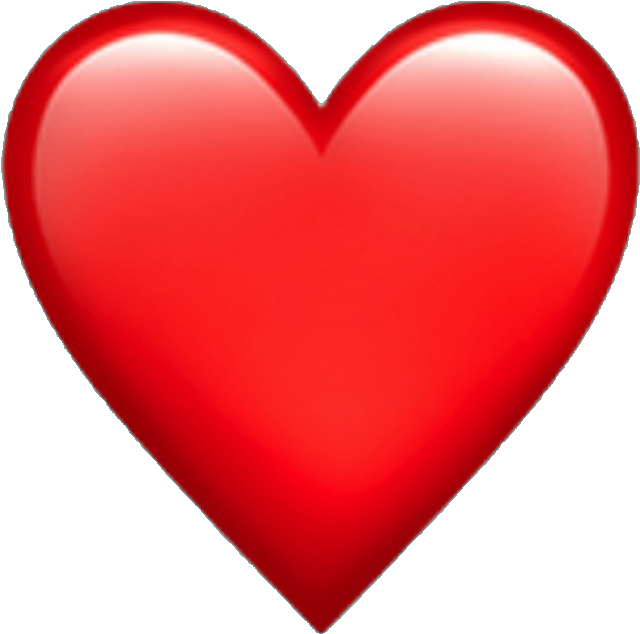
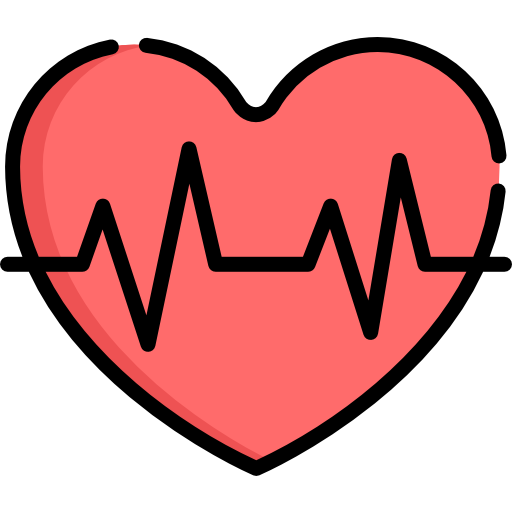
refactor:  날짜 코드 개선 및 이미지 변경

diff --git a/date-calculator/index.js b/date-calculator/index.js
@@ -1,45 +1,30 @@
-// 1 우리 사귄지 며칠째?
+// 우리 사귄지 며칠째?
 const now = new Date();
-const start = new Date("2020.5.28");
+const start = new Date('2020-05-28');
+const dayDiff = Math.floor((now - start) / (1000 * 60 * 60 * 24) + 1);
+$('#love').text(dayDiff + '일째');
 
-const timeDiff = now.getTime() - start.getTime();
-const day = Math.floor(timeDiff / (1000 * 60 * 60 * 24) + 1);
-$("#love").text(day + "일째");
+// 기념일까지 남은 날짜?
+const valentine = new Date('2024-02-14');
+const dayDiff2 = Math.floor((valentine - now) / (1000 * 60 * 60 * 24));
+$('#valentine').text(dayDiff2 + ' days');
 
-// 2 기념일까지 남은 날짜?
-const valentine = new Date("2024-02-14");
+// 1000일은 언제?
+const thousand = new Date(start.getTime() + 999 * (1000 * 60 * 60 * 24));
+const thousandDate = `${thousand.getFullYear()}.${thousand.getMonth() + 1}.${thousand.getDate()}`;
+$('#thousand-date').text(thousandDate);
 
-const timeDiff2 = valentine.getTime() - now.getTime();
-const day2 = Math.floor(timeDiff2 / (1000 * 60 * 60 * 24) + 1);
-$("#valentine").text(day2 + "일 남음");
+// 2000일은 언제?
+const twoThousand = new Date(start.getTime() + 1999 * (1000 * 60 * 60 * 24));
+const twoThousandDate = `${twoThousand.getFullYear()}.${
+  twoThousand.getMonth() + 1
+}.${twoThousand.getDate()}`;
+$('#two-thousand-date').text(twoThousandDate);
 
-// 3 1000일은 언제?
-const ms = start.getTime() + 999 * (1000 * 60 * 60 * 24);
-const thousand = new Date(ms);
-const thousandDate =
-  thousand.getFullYear() +
-  "." +
-  (thousand.getMonth() + 1) +
-  "." +
-  thousand.getDate();
-$("#thousand-date").text(thousandDate);
+// 1000일까지 며칠 남았는지?
+const dayDiff3 = Math.floor((thousand - now) / (1000 * 60 * 60 * 24));
+$('#thousand').text(dayDiff3 + ' days');
 
-// 추가로 2000일은 언제?
-const ms2 = start.getTime() + 1999 * (1000 * 60 * 60 * 24);
-const twoThousand = new Date(ms2);
-const twoThousandDate =
-  twoThousand.getFullYear() +
-  "." +
-  (twoThousand.getMonth() + 1) +
-  twoThousand.getDate();
-$("#two-thousand-date").text(twoThousandDate);
-
-// 4 오늘부터 1000일까지 며칠 남았는기?
-const timeDiff3 = thousand.getTime() - now.getTime();
-const day3 = Math.floor(timeDiff3 / (1000 * 60 * 60 * 24) + 1);
-$("#thousand").text(day3 + "일 남음");
-
-// 추가로 2000일은 며칠 남았는가?
-const timeDiff4 = twoThousand.getTime() - now.getTime();
-const day4 = Math.floor(timeDiff4 / (2000 * 60 * 60 * 24) + 1);
-$("#two-thousand").text(day4 + "일 남음");
+// 2000일까지 며칠 남았는지?
+const dayDiff4 = Math.floor((twoThousand - now) / (1000 * 60 * 60 * 24));
+$('#two-thousand').text(dayDiff4 + ' days');

diff --git a/date-calculator/index.html b/date-calculator/index.html
@@ -15,44 +15,47 @@
   </head>
 
   <body class="container">
+    <!-- 남자, 여자, 하트 이미지 -->
     <section class="photos">
-      <img id="boy" src="./images/boy.png" alt="boy" />
+      <img id="man" src="./images/man.png" alt="man" />
       <img id="heart" src="./images/heart.png" alt="heart" />
-      <img id="girl" src="./images/girl.png" alt="girl" />
+      <img id="women" src="./images/woman.png" alt="women" />
     </section>
 
-    <div
-      class="container d-flex flex-column justify-content-center align-items-center mt-3"
-    >
-      <h3>철수♥영희</h3>
+    <!-- 이름과 사귄 날짜 -->
+    <div class="container d-flex flex-column justify-content-center align-items-center mt-3">
+      <h3>철수 🖤 영희</h3>
       <h3 id="love">0일째</h3>
       <h4 class="date">2020.5.28</h4>
     </div>
     <hr />
 
+    <!-- 발렌타인 데이까지 -->
     <section class="special-day">
       <h3 class="title">발렌타인 데이</h3>
       <div class="date-box">
-        <p id="valentine" class="days-left">0일 남음</p>
+        <p id="valentine" class="days-left"></p>
         <p class="date">2024.2.14</p>
       </div>
     </section>
     <hr />
 
+    <!-- 1000일 -->
     <section class="special-day">
       <h3 class="title">1000일</h3>
       <div class="date-box">
-        <p id="thousand" class="days-left">0일 남음</p>
-        <p id="thousand-date" class="date">0000.00.00</p>
+        <p id="thousand" class="days-left"></p>
+        <p id="thousand-date" class="date"></p>
       </div>
     </section>
     <hr />
 
+    <!-- 2000일 -->
     <section class="special-day">
       <h3 class="title">2000일</h3>
       <div class="date-box">
-        <p id="two-thousand" class="days-left">0일 남음</p>
-        <p id="two-thousand-date" class="date">0000.00.00</p>
+        <p id="two-thousand" class="days-left"></p>
+        <p id="two-thousand-date" class="date"></p>
       </div>
     </section>
 

diff --git a/date-calculator/style.css b/date-calculator/style.css
@@ -1,52 +1,66 @@
 * {
   color: #333333;
 }
+
 .photos {
   margin-top: 50px;
   display: flex;
   justify-content: center;
   align-items: center;
 }
-#boy {
+
+#man,
+#women {
   width: 150px;
   height: 150px;
   object-fit: cover;
+  border: 0.5px solid #a0a0a0;
   border-radius: 50%;
-  margin-right: 30px;
+  margin: 0 auto;
 }
-#girl {
-  width: 150px;
-  height: 150px;
-  object-fit: cover;
-  border-radius: 50%;
-  margin-left: 30px;
+
+@keyframes up-down {
+  from {
+    transform: translateY(opx);
+  }
+  to {
+    transform: translateY(-20px);
+  }
 }
+
 #heart {
   width: 50px;
   height: 50px;
+  animation: up-down 0.5s infinite ease-in-out alternate;
 }
-.gray {
-  color: #a0a0a0;
-}
+
 .special-day {
   display: flex;
   justify-content: space-between;
 }
+
+.title,
+.days-left,
+.date,
+.container h3 {
+  font-weight: 600;
+}
+
+.days-left,
+.date {
+  text-align: right;
+}
+
+.title,
+.date {
+  margin-bottom: 0;
+}
+
 .title {
   display: flex;
   align-items: center;
-  font-weight: 600;
 }
-.days-left {
-  text-align: right;
-  font-weight: 600;
-}
+
 .date {
-  text-align: right;
   color: #a0a0a0;
-  margin-bottom: 0;
-  font-weight: 600;
-}
-.container h3 {
-  font-weight: 600;
 }
